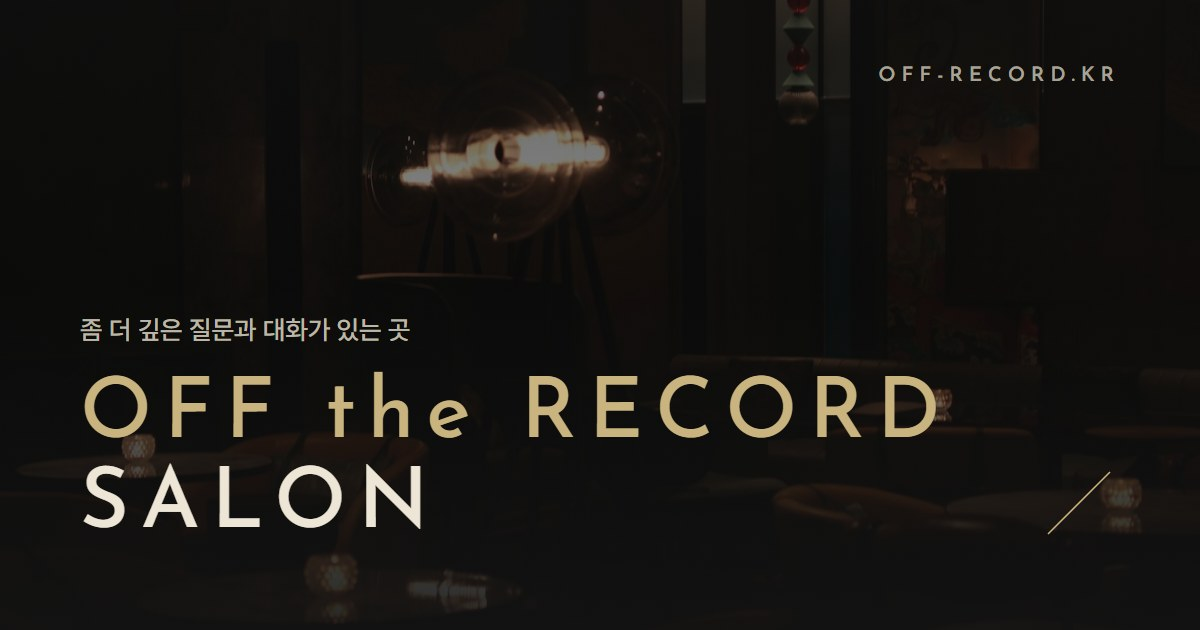
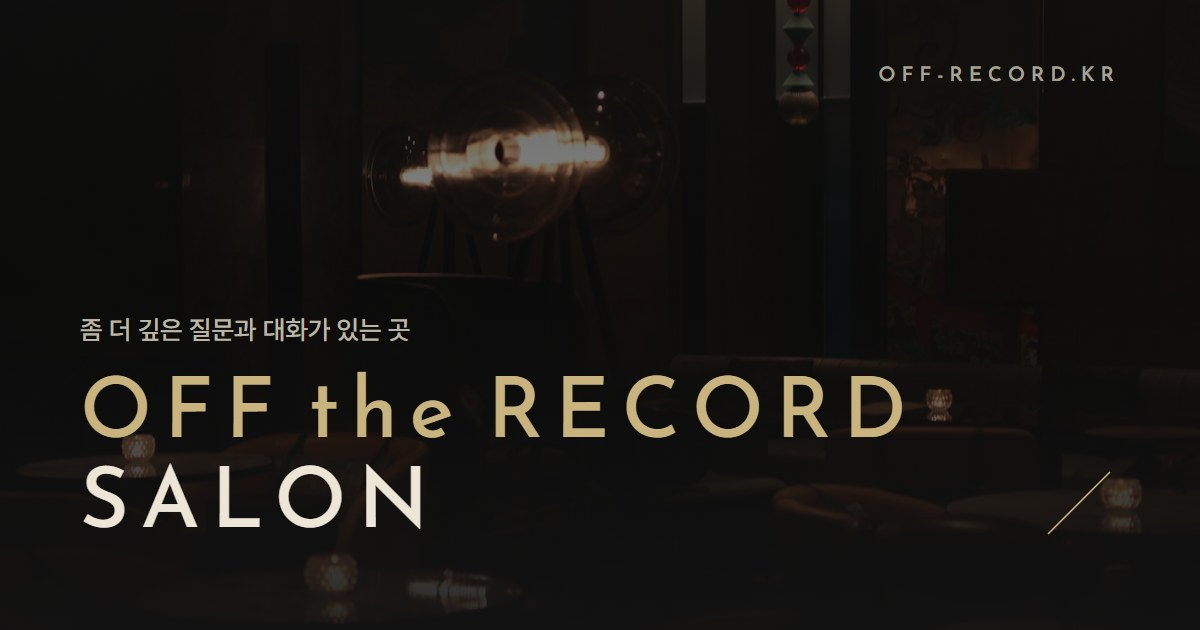
OFF the RECORD 단어 간격 좁힘

Changed region(s): [[0.2467, 0.573, 0.8017, 0.6937]]

diff --git a/admin.html b/admin.html
@@ -370,6 +370,10 @@ footer{background:var(--dk)}footer p{color:rgba(237,230,214,.35)}
 
 /* 표기: OFF the RECORD SALON (대소문자 그대로) */
 .nav-logo-text,.hero-wordmark,.lg,.hprev-text b,.sub-h.brand{text-transform:none!important}
+
+/* 단어 간격 좁히기 */
+.lg{word-spacing:-.22em}
+.hprev-text b{word-spacing:-.2em}
 </style></head><body>
 <div class="gate" id="gate"><div class="gate-box">
   <h2><span class="lg">OFF&nbsp;the&nbsp;RECORD SALON</span><small>ADMIN</small></h2>

diff --git a/index.html b/index.html
@@ -527,6 +527,11 @@ body::after{display:none}
 
 /* 표기: OFF the RECORD SALON (대소문자 그대로) */
 .nav-logo-text,.hero-wordmark,.lg,.hprev-text b,.sub-h.brand{text-transform:none!important}
+
+/* 단어 간격 좁히기 */
+.hero-wordmark{word-spacing:-.2em}
+.nav-logo-text{word-spacing:-.24em}
+.sub-h.brand{word-spacing:-.2em}
 </style></head><body>
 
 <nav class="nav" id="nav">
